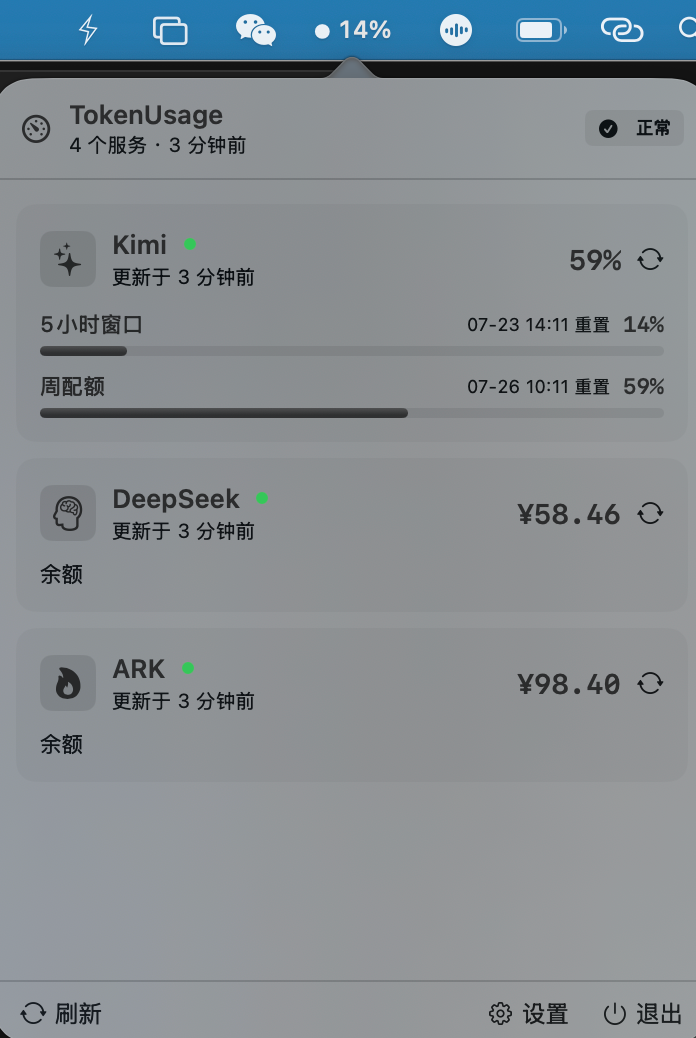
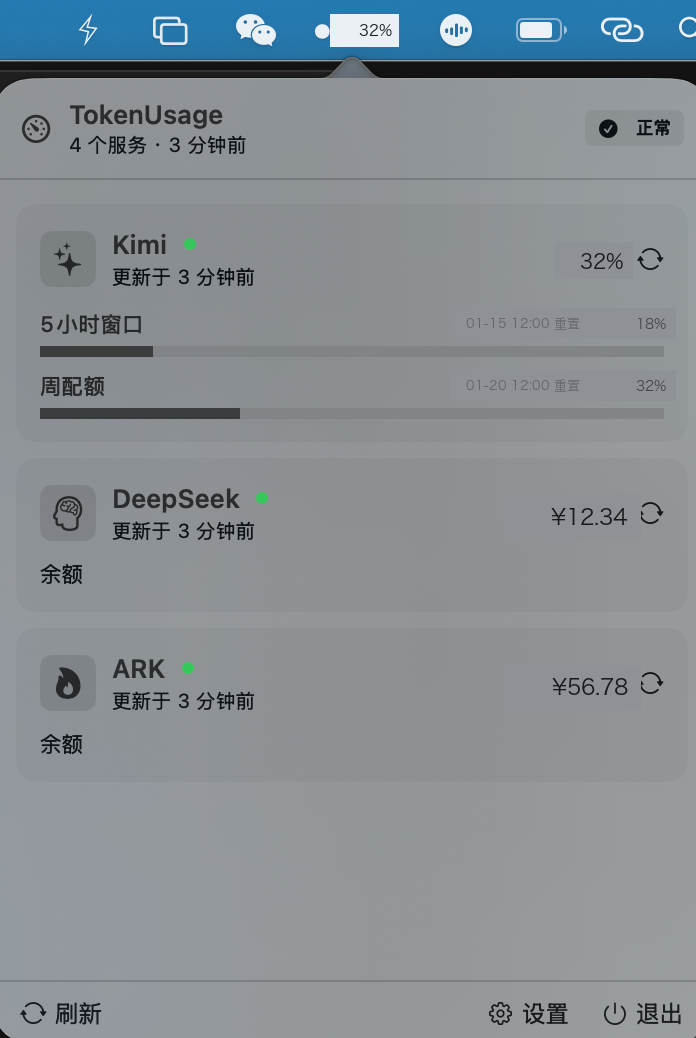
docs: 打码 README 截图并修正密钥存储说明
公开仓库避免暴露真实余额/用量；README 改为准确描述明文+0600；
.gitignore 补充 .env / *.key 等敏感文件规则。

diff --git a/README.md b/README.md
@@ -43,10 +43,11 @@ open TokenUsageDisplay.app
 
 ## 数据安全
 
-- 所有配置与凭证只保存在本机 `~/.config/tokenusage/`，密钥文件权限 0600
+- 所有配置与凭证只保存在本机 `~/.config/tokenusage/`，不上传、不进 git
 - Kimi 复用 `~/.kimi-code/` 的 OAuth token；火山方舟复用 `~/.arkcli/` 的 STS 临时凭证；智谱复用 `~/.zcode/v2/config.json` 的 API Key——均为本地只读复用
-- DeepSeek / 阿里云需手动填 Key（阿里云填 RAM 子账号 AccessKey），加密存于本地 `~/.config/tokenusage/keys/`（权限 0600）
+- DeepSeek / 阿里云需手动填 Key（阿里云填 RAM 子账号 AccessKey），以明文文件保存在 `~/.config/tokenusage/keys/`（权限 0600，仅当前用户可读）
 - 网络请求只发往各服务官方 API，无任何第三方上报
+- README 截图中的余额与用量为演示数据，已打码，不代表真实账户
 
 ## License
 
